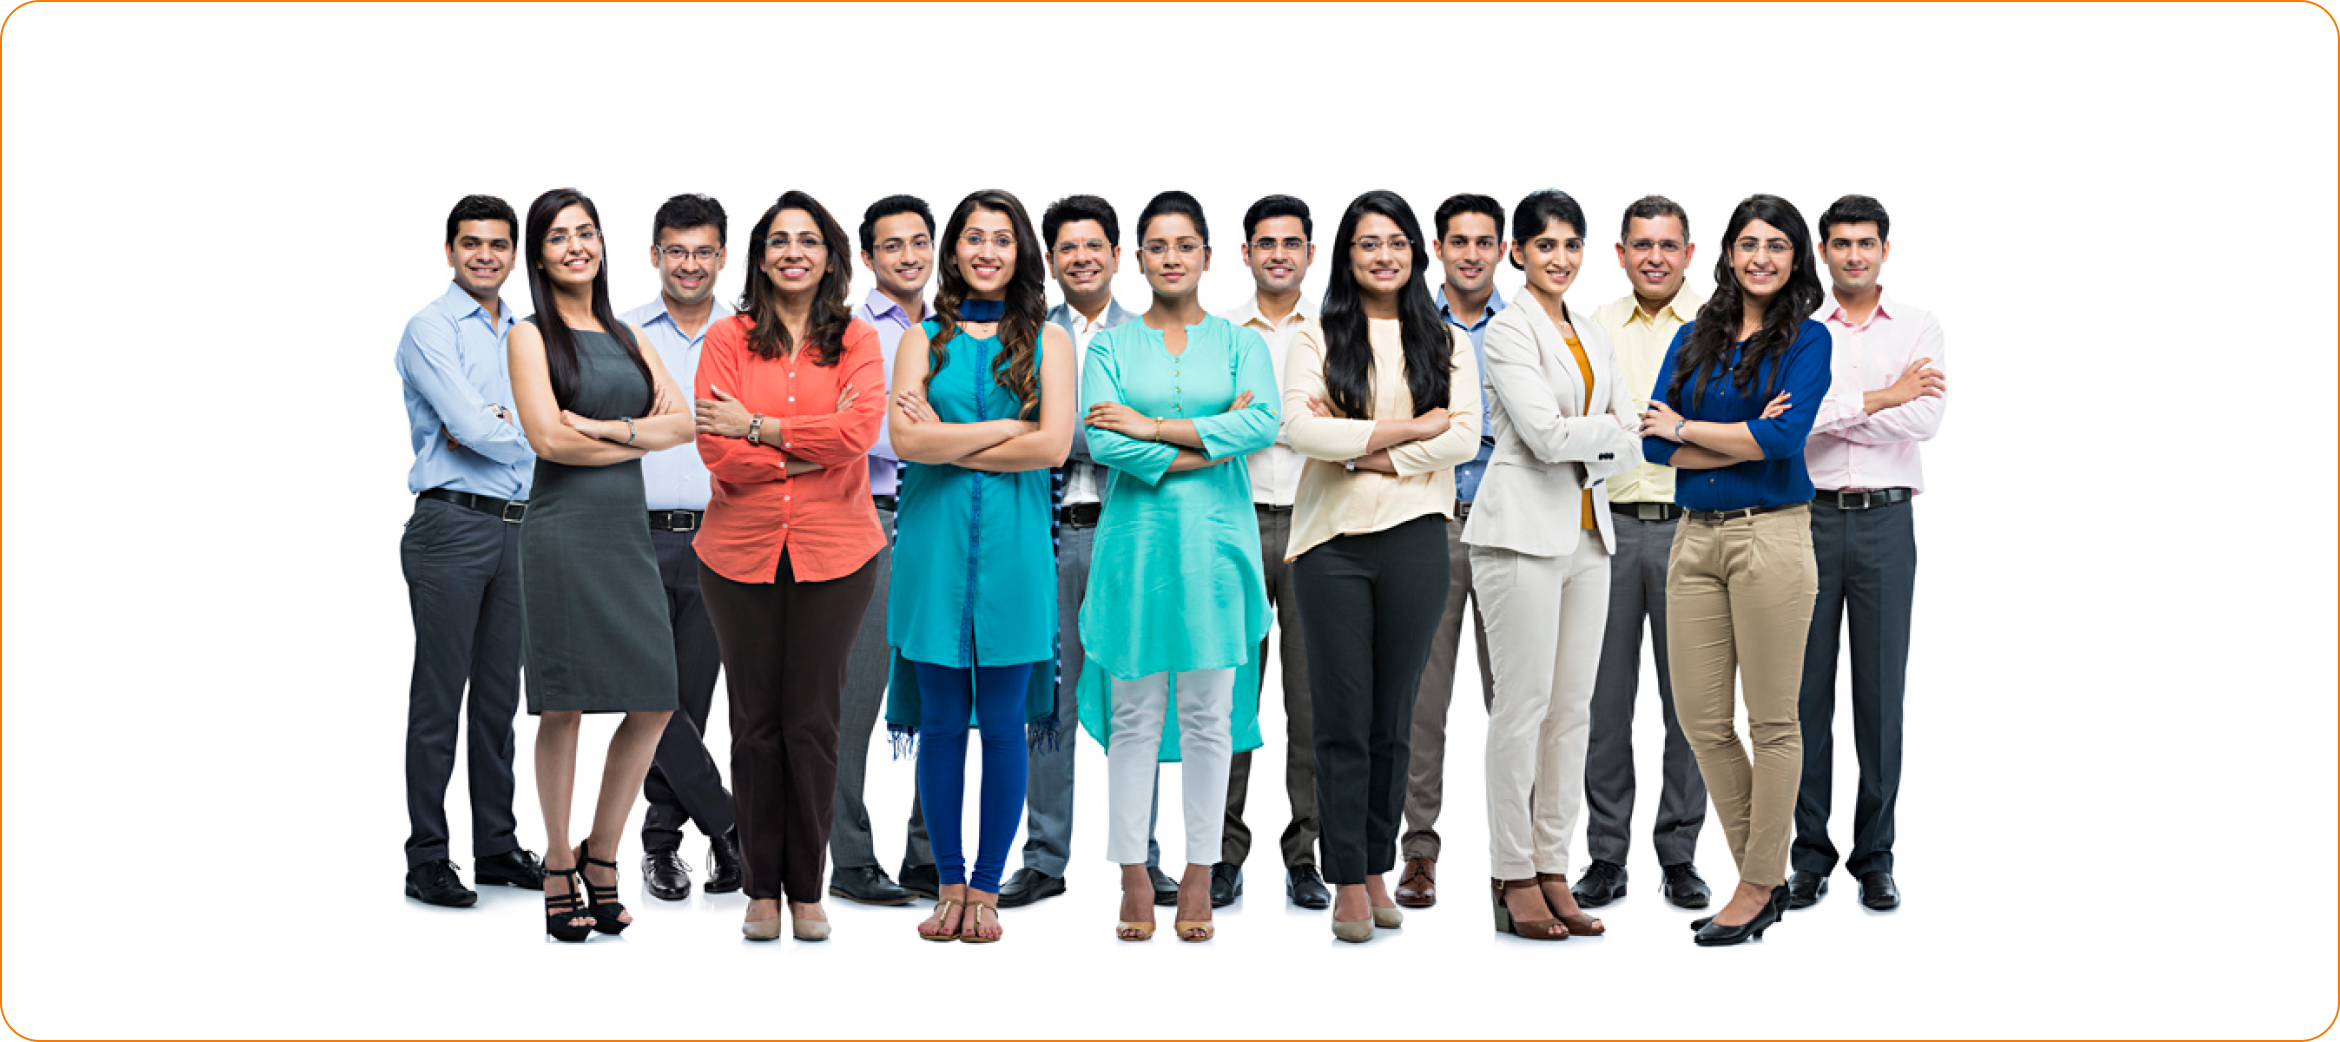
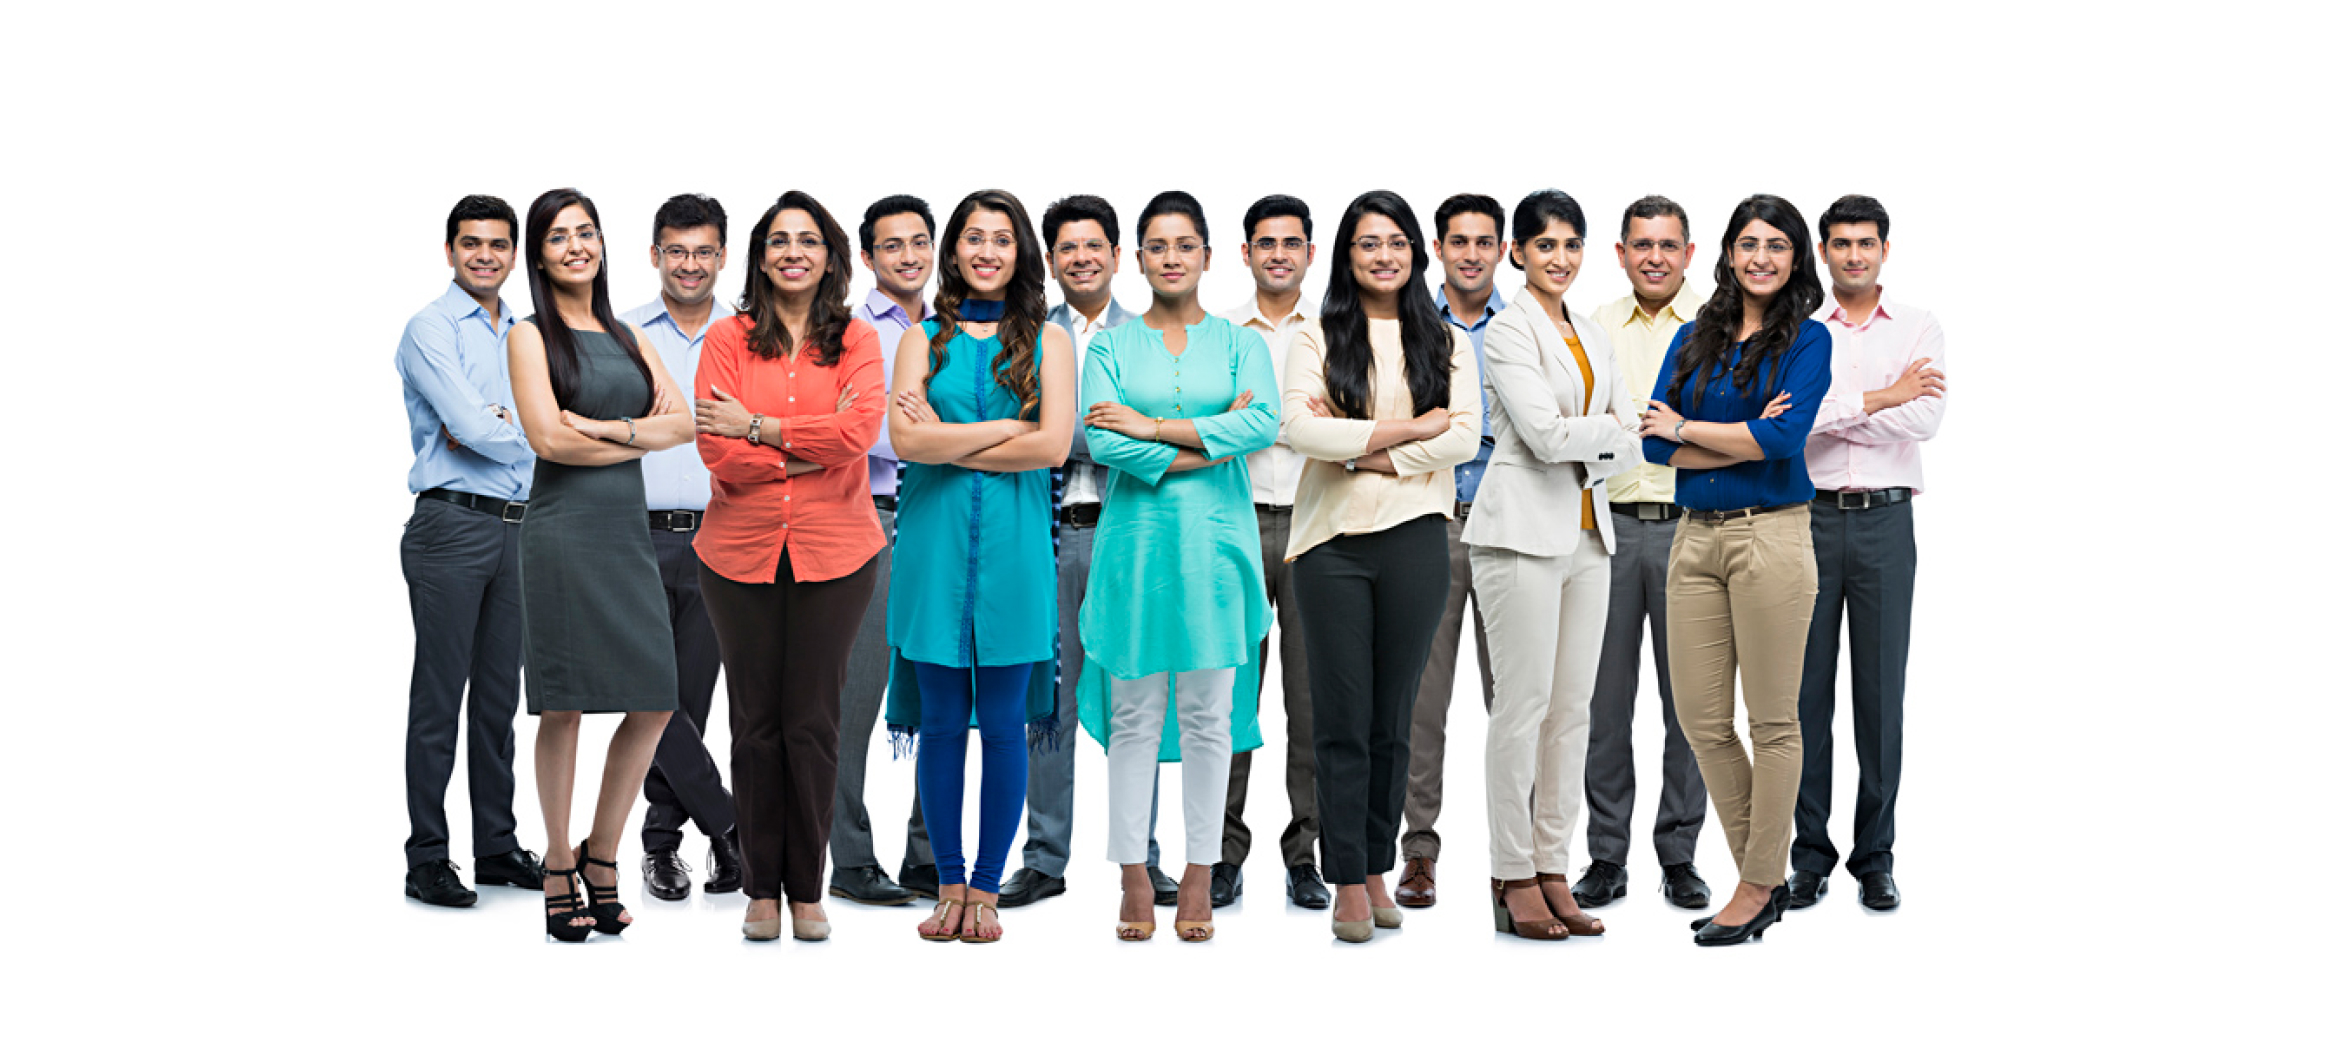
slider

Changed region(s): [[0.9983, 0.0, 1.0, 0.9827], [0.0, 0.9827, 0.9983, 1.0]]

diff --git a/assets/css/style.css b/assets/css/style.css
@@ -1228,14 +1228,28 @@ button.mfp-close {
 
 /* Slider */
 
+.banner-preview{
+    margin-bottom: 40px;
+}
+
+.banner-preview img{
+    border: 1px solid #FC9100;
+    border-radius: 20px;
+}
+
+.banner-thumb img{
+    border: 2px dotted transparent;
+    border-radius: 20px;
+}
+
 .banner-slider .banner-thumb .owl-item {
     cursor: pointer;
     transition: .1s;
 }
 
-.banner-thumb .owl-item.current,
-.banner-thumb .owl-item:hover {
-    
+.banner-thumb .owl-item.current img,
+.banner-thumb .owl-item:hover img{
+    border-color: #FC9100;
 }
 
 /* Footer */

diff --git a/about.html b/about.html
@@ -90,7 +90,7 @@
             </div>
         </section>
 
-        <!-- Single Product -->
+        <!-- Banner Slider -->
         <section class="cc-banner-slider">
             <div class="container">
                 <div class="sec-heading text-center mb-5">
